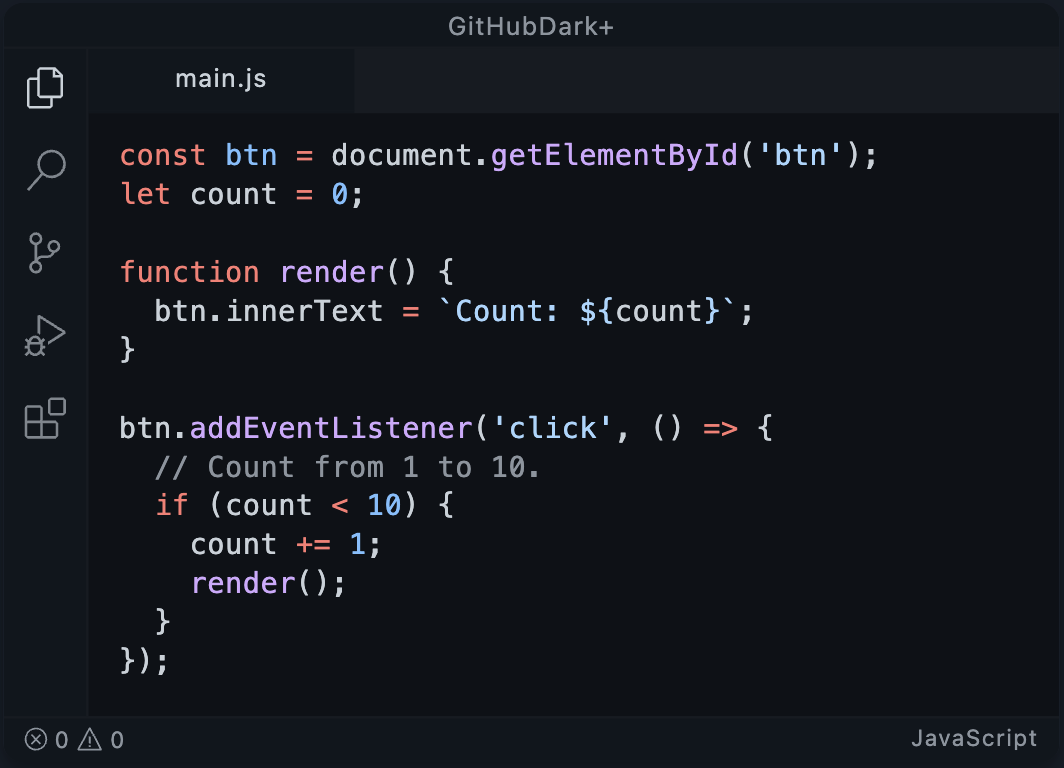
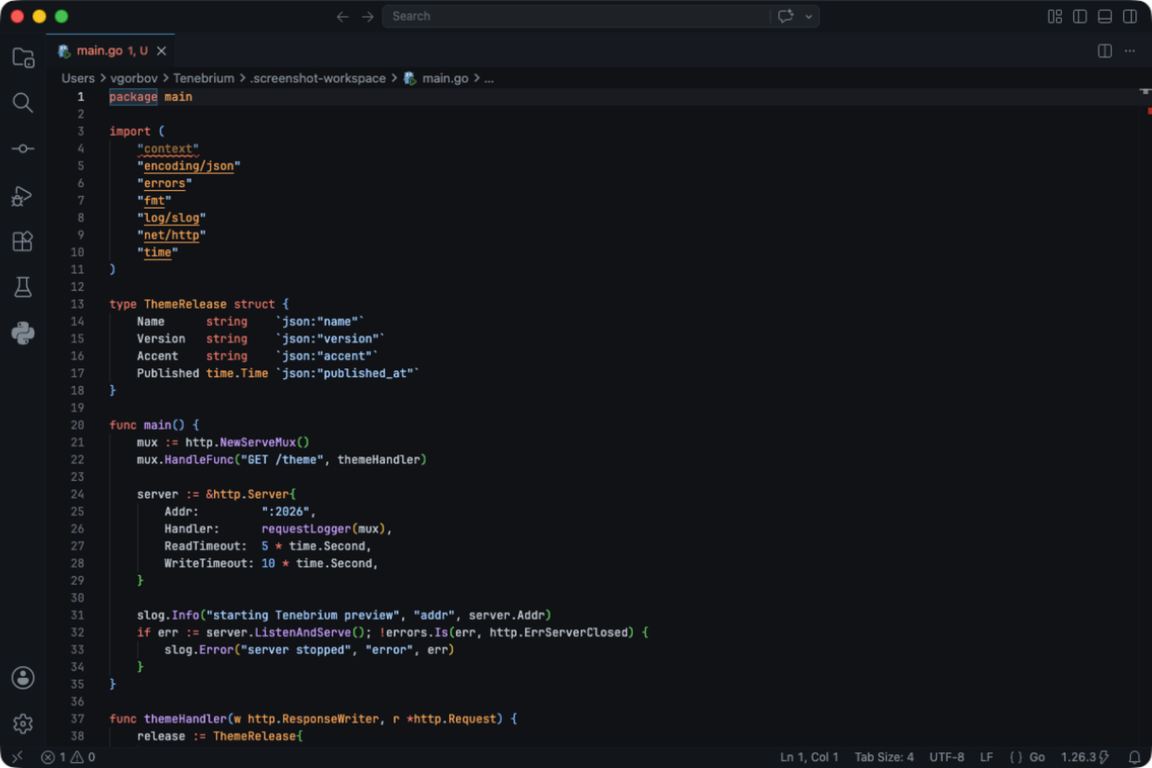
Release Tenebrium theme

diff --git a/README.md b/README.md
@@ -1,7 +1,42 @@
-# GithubDark+
+# Tenebrium
 
-This theme is a modified **Github Dark Default** theme that removes the distracting high contrast elements from the UI for a more seamless experience.
+Tenebrium is a focused dark theme for developers who like GitHub Dark's deep, blue-tinted surfaces but want the cleaner syntax language of VS Code's 2026 Dark theme.
+
+It keeps the editor calm and low-glare, shifts the workbench accents into a cool teal, and uses the 2026 token palette for familiar, modern syntax highlighting.
 
 ## Screenshot
 
 ![Screenshot](image.png)
+
+## Highlights
+
+- GitHub-inspired editor and workbench surfaces: `#0d1117`, `#10161d`, and `#161b22`.
+- VS Code 2026-style syntax colors for keywords, functions, strings, constants, tags, markup, and diagnostics.
+- Teal accents for focus states, activity indicators, buttons, links, selection highlights, and bracket matches.
+- Purposefully restrained UI contrast so the editor feels quiet during long coding sessions.
+
+## Install
+
+Search for **Tenebrium** in the VS Code Extensions view, then choose **Color Theme: Tenebrium** from the Command Palette.
+
+For local testing from this repository:
+
+```bash
+vsce package
+code --install-extension githubdarkplus-4.0.0.vsix
+```
+
+## Palette
+
+| Role | Color |
+| --- | --- |
+| Editor background | `#0d1117` |
+| Sidebar and tabs | `#161b22` |
+| Title/status surfaces | `#10161d` |
+| Primary accent | `#3994BC` |
+| Links | `#48A0C7` |
+| Cursor | `#BBBEBF` |
+
+## License
+
+Released under the AGPL-3.0 license.

diff --git a/CHANGELOG.md b/CHANGELOG.md
@@ -1,8 +1,17 @@
 # Change Log
 
-All notable changes to the "githubdark-" extension will be documented in this file.
+All notable changes to this extension will be documented in this file.
 
 Check [Keep a Changelog](http://keepachangelog.com/) for recommendations on how to structure this file.
+
+## [4.0.0]
+
+- Renamed extension from **GitHubDark+** to **Tenebrium**.
+- Adopted the VS Code 2026 Dark `tokenColors` palette verbatim (adds `constant.other.placeholder`, `token.info-token`, `token.warn-token`, `token.error-token`, `token.debug-token` scopes).
+- Kept the GitHub Dark editor, sidebar, panel, and tab backgrounds (`#0d1117` / `#161b22` / `#10161d`).
+- Swapped accent family from GitHub blue / orange / green to the VS Code 2026 teal (`#3994BC` / `#48A0C7` / `#297AA0`): focus border, cursor, active tab top, active activity bar border, panel title border, buttons, badges, links, list focus/selection backgrounds, find/word-highlight backgrounds, and bracket-match colors all shift to teal.
+- Diff editor and `gitDecoration.*` colors retained from GitHub Dark — these signal semantic added/removed/modified state.
+- Added a new Tenebrium Marketplace icon, banner color, keywords, repository links, and README preview.
 
 ## [Unreleased]
 

diff --git a/vsc-extension-quickstart.md b/vsc-extension-quickstart.md
@@ -4,7 +4,7 @@
 
 * This folder contains all of the files necessary for your color theme extension.
 * `package.json` - this is the manifest file that defines the location of the theme file and specifies the base theme of the theme.
-* `themes/GitHubDark+-color-theme.json` - the color theme definition file.
+* `themes/Tenebrium-color-theme.json` - the color theme definition file.
 
 ## Get up and running straight away
 